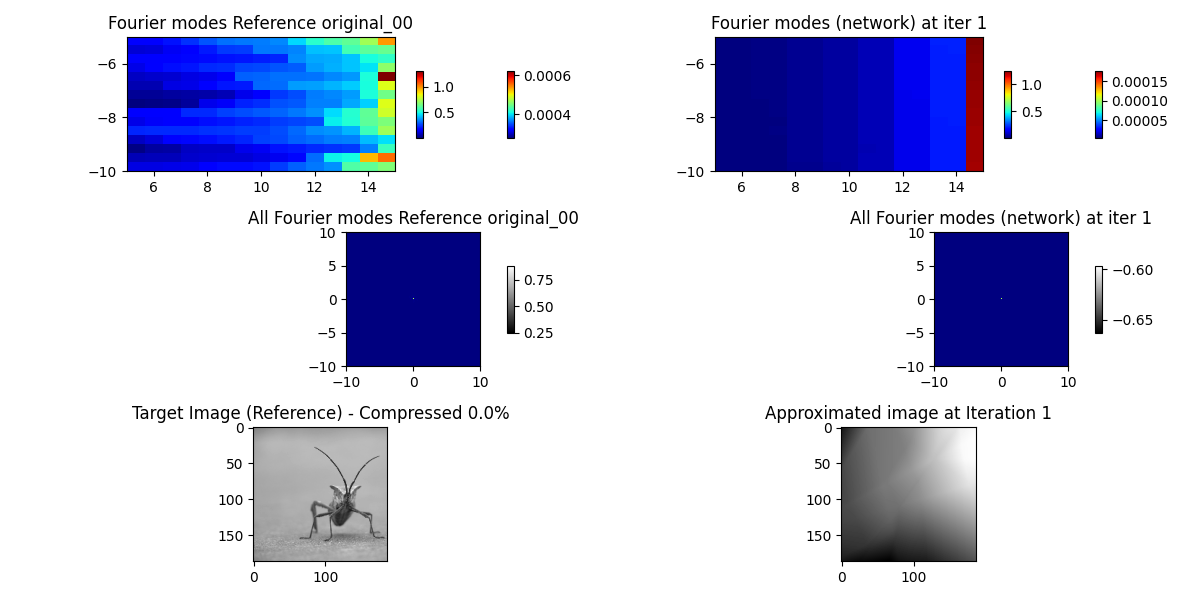
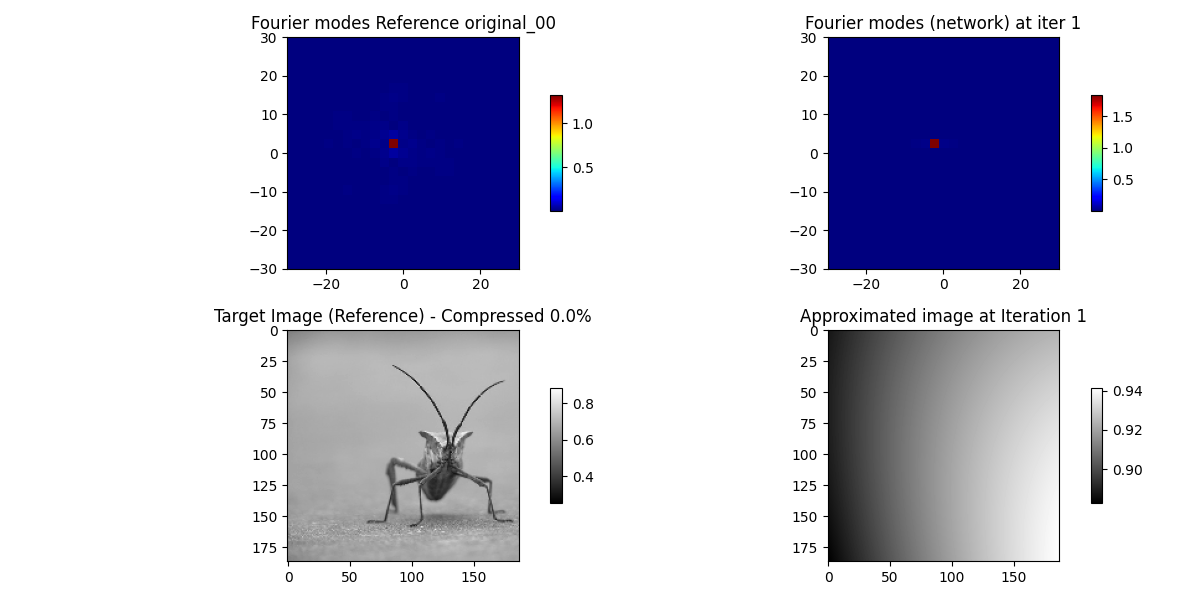
Compression training - scaling compression plots.

diff --git a/week7/image_compression.py b/week7/image_compression.py
@@ -54,7 +54,8 @@ def Deep_NN(input_, W, B):
 
     for i in range(n_layers - 1):
         # next activation = Weight * prev_activation + bias -> transformed to within desired range
-        A = tf.nn.relu(tf.add(tf.matmul(A, W[i]), B[i]))
+        A = tf.sin(tf.add(tf.matmul(A, W[i]), B[i]))
+        # can experiment with different activations i.e. tf.nn.relu
 
     # same thing for the last layer except without restricting range
     return tf.add(tf.matmul(A, W[-1]), B[-1])
@@ -190,12 +191,12 @@ for image_name in images_dict.keys():
             # fig = plt.figure(figsize=plt.figaspect(0.5))
             # ax = fig.add_subplot(1, 2, 1)
             # only show the first few modes - most energetic ones
-            img = axs[0, 0].imshow(np.sort(P_ref)[-15:, -15:], extent=[5, 15, -10, -5], cmap="jet")
+            img = axs[0, 0].imshow(P_ref[82:107, 82:107], extent=[-30, 30, -30, 30], cmap="jet")
             fig.colorbar(img, shrink=0.5, aspect=10, ax=axs[0, 0])
             axs[0, 0].set_title("Fourier modes Reference {}".format(image_name))
             # ax = fig.add_subplot(1, 2, 2)
             # only show the first few modes
-            img = axs[0, 1].imshow(np.sort(P_pred)[-15:, -15:], extent=[5, 15, -10, -5], cmap="jet")
+            img = axs[0, 1].imshow(P_pred[82:107, 82:107], extent=[-30, 30, -30, 30], cmap="jet")
             fig.colorbar(img, shrink=0.5, aspect=10, ax=axs[0, 1])
             axs[0, 1].set_title("Fourier modes (network) at iter {}".format(n))
 
